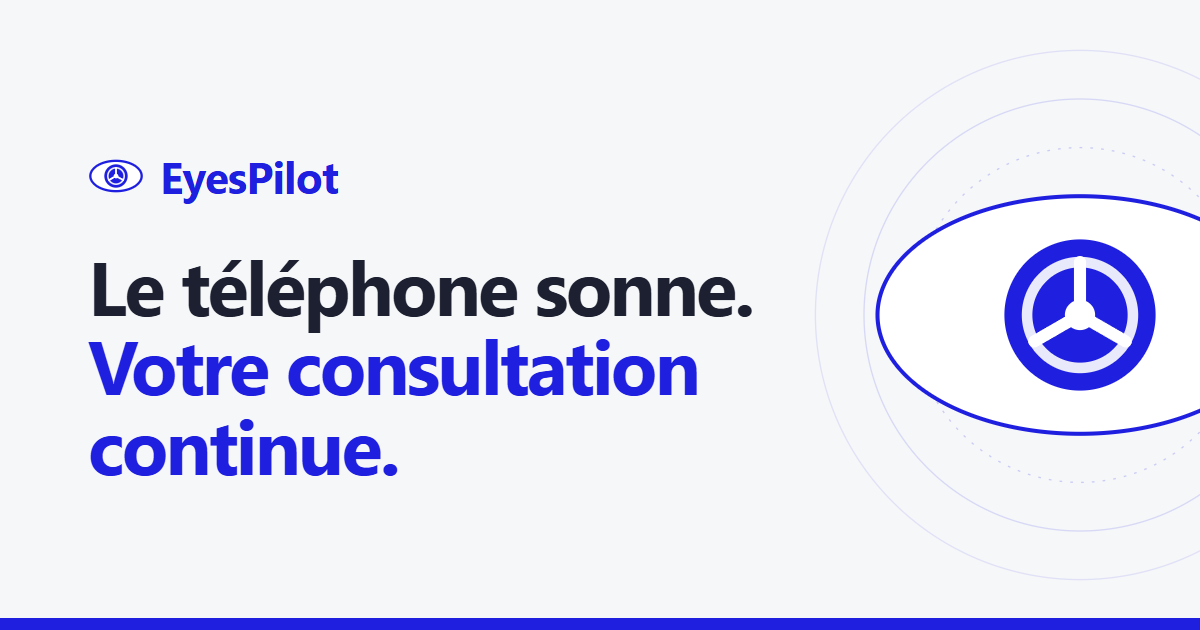
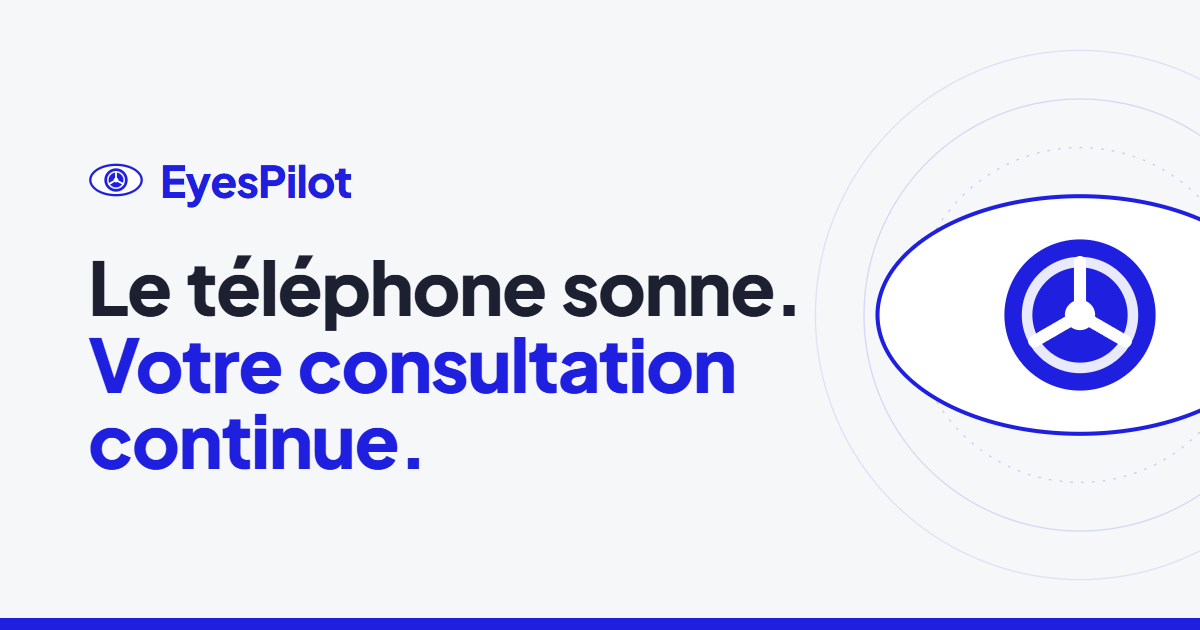
chore(seo): image de partage en Plus Jakarta Sans
La police de la marque est lue en local dans node_modules
(@fontsource-variable), réseau toujours bloqué pendant le rendu ; le
script vérifie qu'elle est bien chargée avant la capture. Contenu
inchangé : l'œil, « Le téléphone sonne. Votre consultation continue. »
et « EyesPilot ». og-image.png : 62,6 Ko -> 66,6 Ko.

Changed region(s): [[0.0617, 0.3921, 0.6783, 0.6333], [0.0617, 0.6635, 0.37, 0.754], [0.0617, 0.2413, 0.3083, 0.3317]]

diff --git a/scripts/og/og-image.html b/scripts/og/og-image.html
@@ -6,9 +6,17 @@
     <!--
       Source de public/og-image.png (1200 x 630).
       Régénérer : npm run og:image
-      Aucune ressource externe : polices système uniquement.
+      Aucune ressource externe : Plus Jakarta Sans est lue dans node_modules
+      (@fontsource-variable), en local.
     -->
     <style>
+      @font-face {
+        font-family: "Plus Jakarta Sans";
+        font-style: normal;
+        font-weight: 200 800;
+        src: url("../../node_modules/@fontsource-variable/plus-jakarta-sans/files/plus-jakarta-sans-latin-wght-normal.woff2")
+          format("woff2-variations");
+      }
       :root {
         --primary: hsl(240 76% 50%);
         --foreground: hsl(230 25% 15%);
@@ -18,7 +26,7 @@
       html, body { width: 1200px; height: 630px; }
       body {
         background: var(--background);
-        font-family: "Segoe UI", system-ui, sans-serif;
+        font-family: "Plus Jakarta Sans", "Segoe UI", system-ui, sans-serif;
         color: var(--foreground);
         overflow: hidden;
         position: relative;
@@ -47,15 +55,16 @@
         align-items: center;
         gap: 16px;
         font-size: 44px;
-        font-weight: 700;
+        font-weight: 800;
         letter-spacing: -0.02em;
         color: var(--primary);
       }
       h1 {
-        font-size: 76px;
+        font-size: 74px;
         line-height: 1.04;
-        font-weight: 700;
-        letter-spacing: -0.035em;
+        font-weight: 800;
+        letter-spacing: -0.02em;
+        word-spacing: 0.05em;
       }
       h1 span { color: var(--primary); display: block; }
       .bar {
